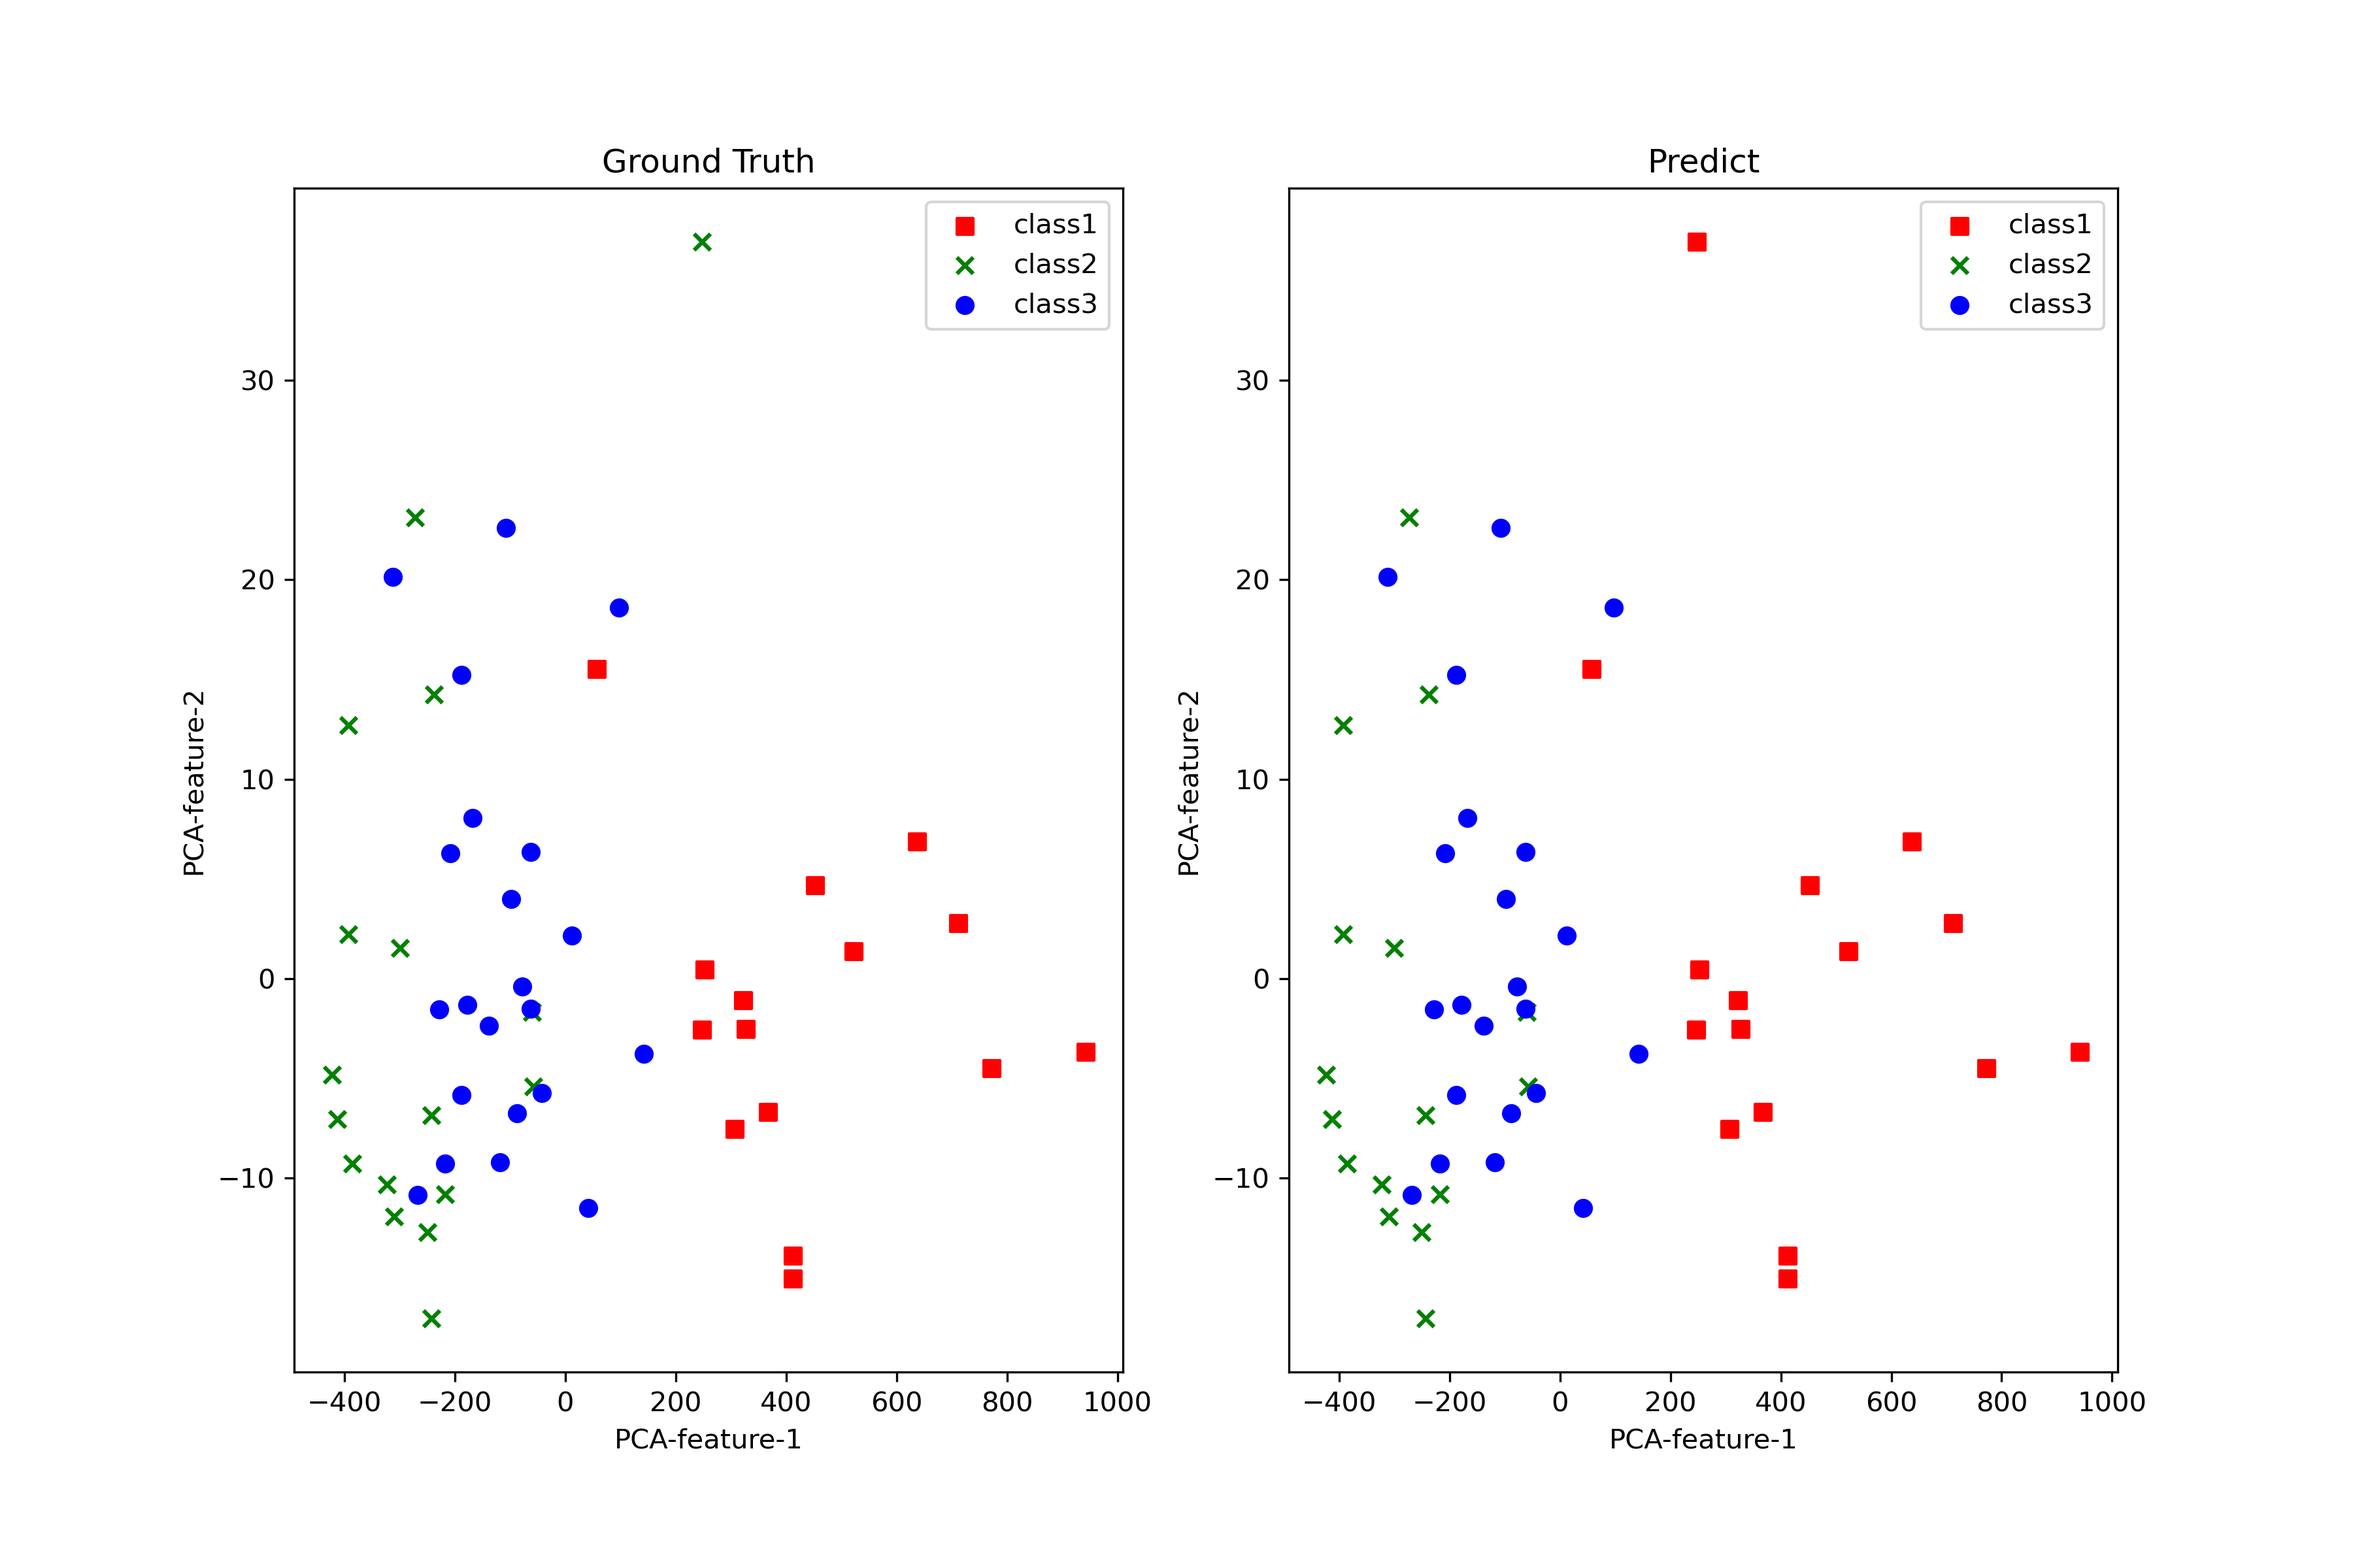
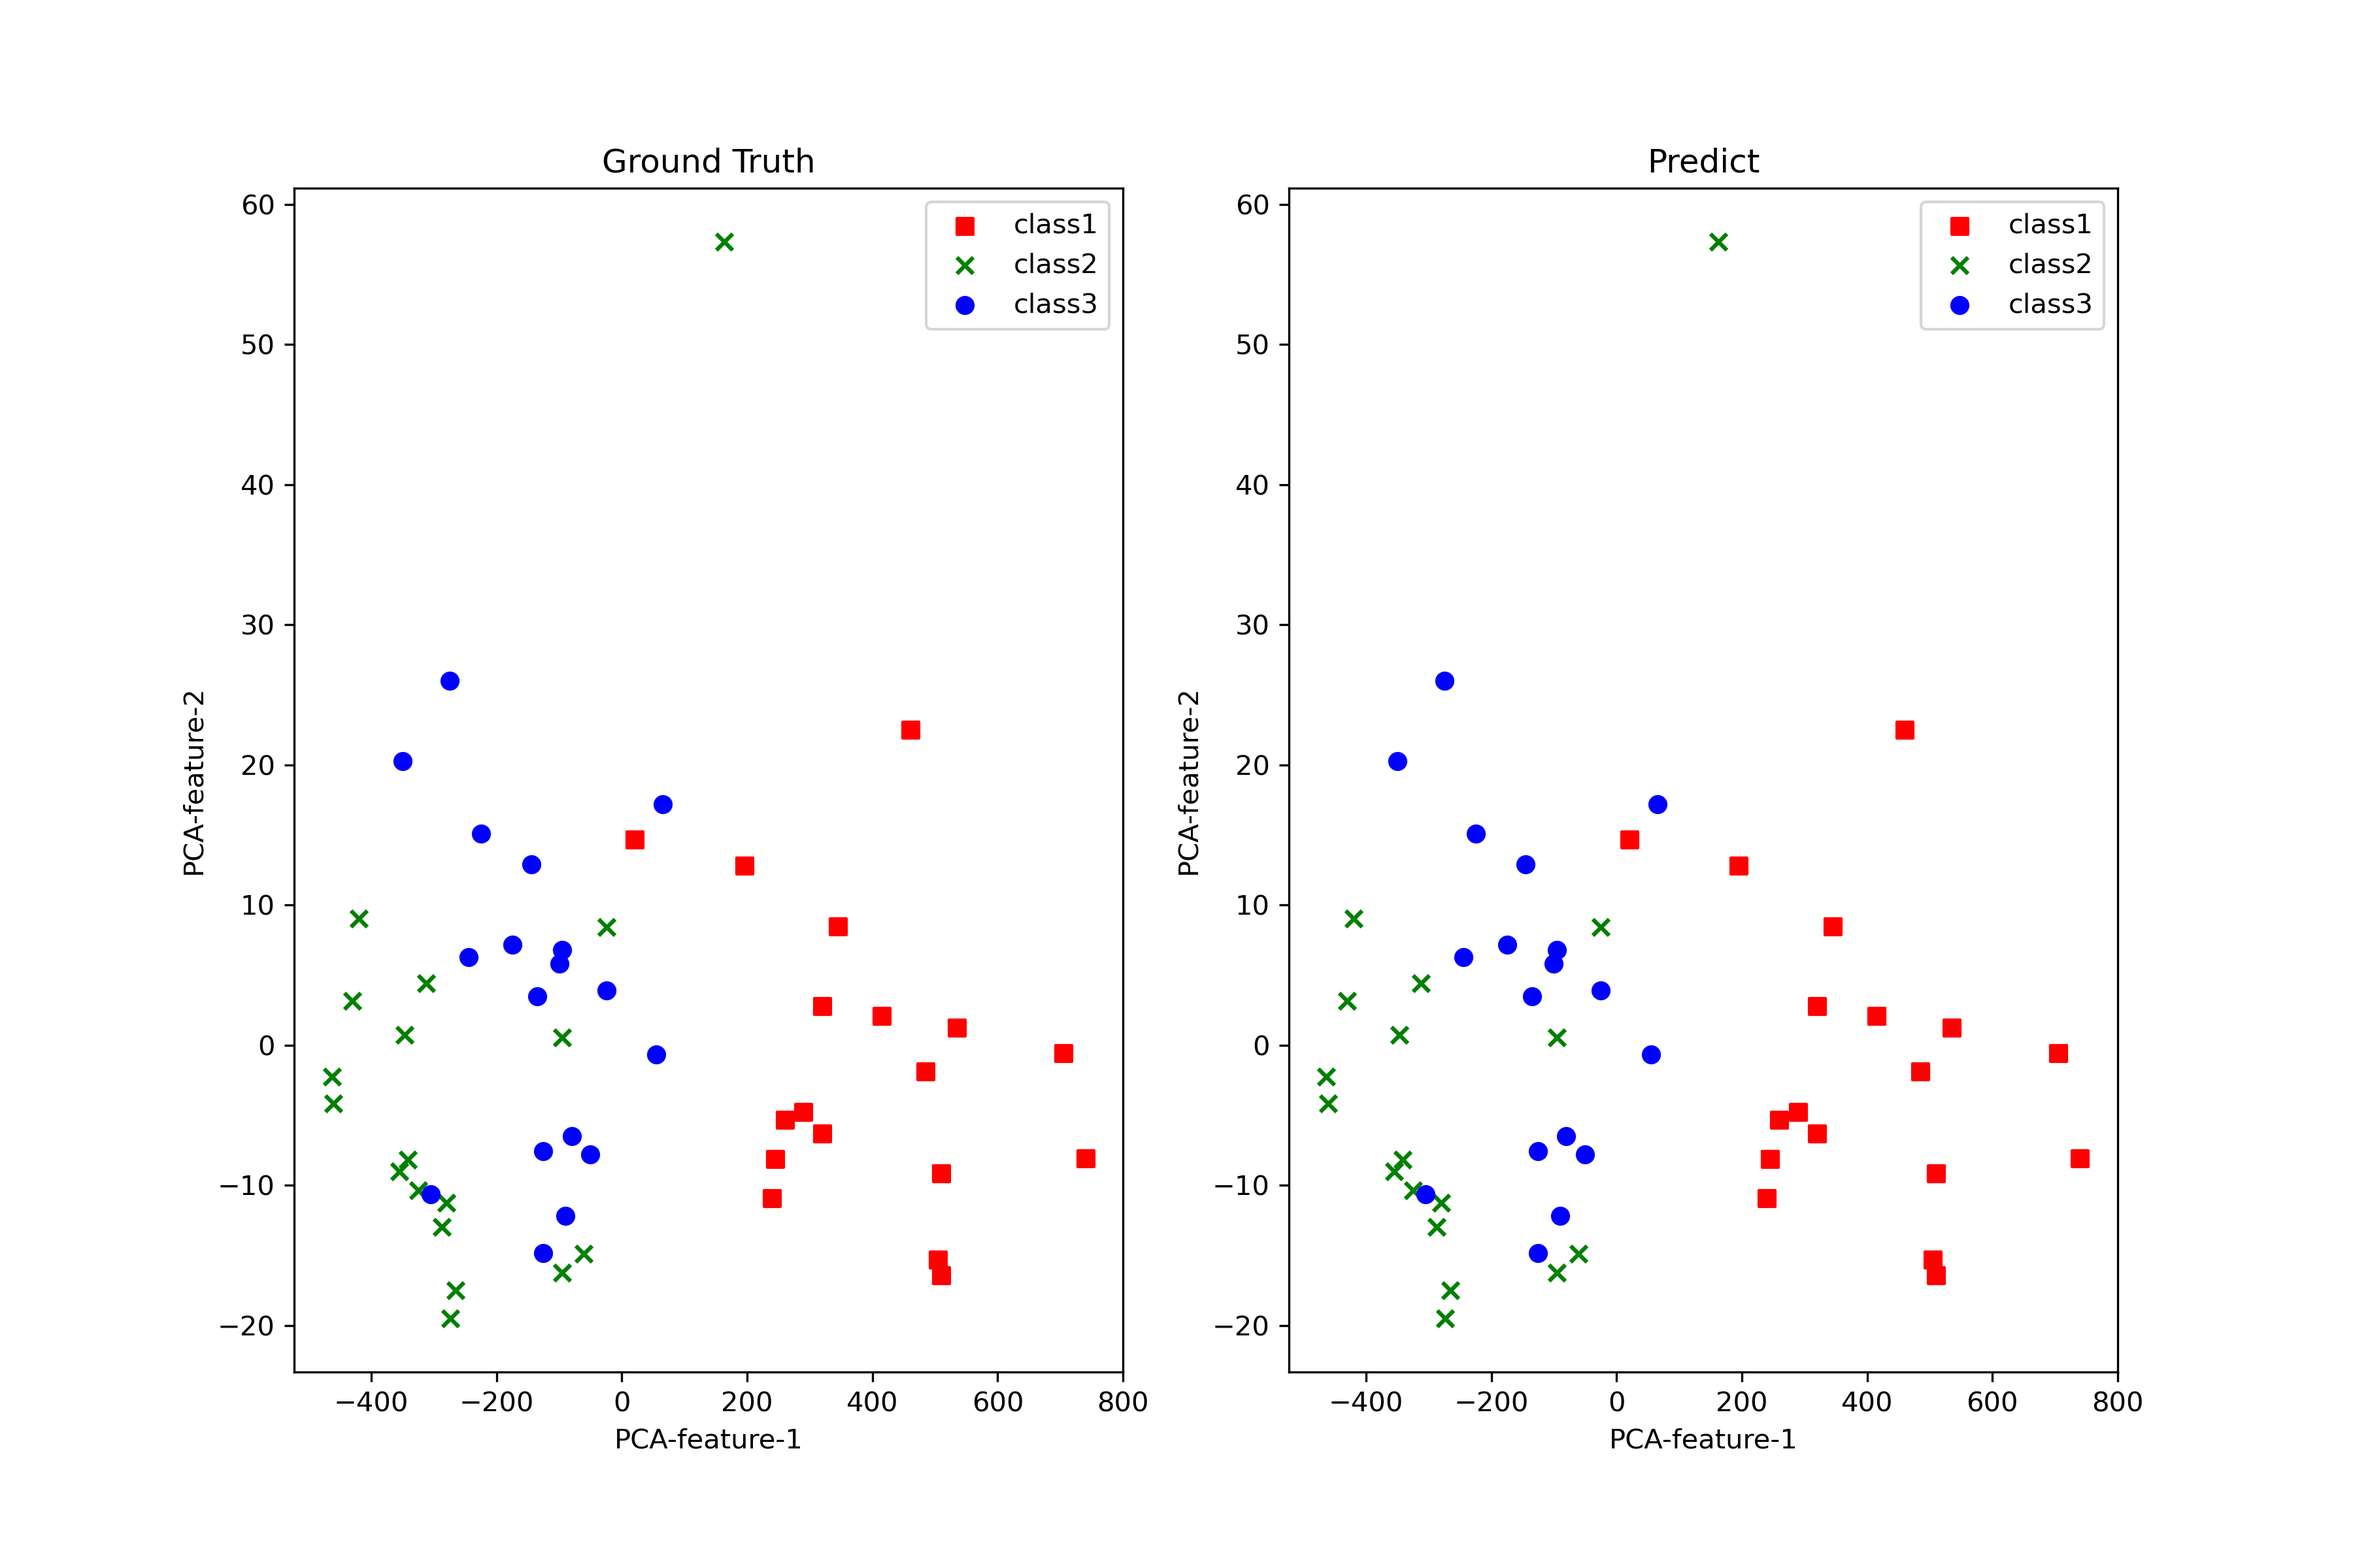
HW1

diff --git a/EE6550/HW1/HW1.py b/EE6550/HW1/HW1.py
@@ -37,17 +37,20 @@ def Preprocessing(data):
     # Split dataset
     print('Split dataset.')
     data_idx = [np.where(data[:,0]==label)[0] for label in range(1, 4)]
-    for class_ in range(3):
-        np.random.shuffle(data_idx[class_])
+    for class_idx in range(3):
+        np.random.shuffle(data_idx[class_idx])
     
+    test_size = np.array([TEST_SIZE/3, TEST_SIZE/3, TEST_SIZE/3]).astype(np.uint8)
+    # test_size = np.array([40, 7, 7]).astype(np.uint8)
+    # print(f'test_size={test_size}')
     train = []
     test = []   
-    for class_ in range(3):
-        for idx in range(len(data_idx[class_])):
-            if idx < TEST_SIZE/3: # 18
-                test.append(data[data_idx[class_][idx]])
+    for class_idx in range(3):
+        for idx in range(len(data_idx[class_idx])):
+            if idx < test_size[class_idx]: # 18 instances for each class
+                test.append(data[data_idx[class_idx][idx]])
             else:
-                train.append(data[data_idx[class_][idx]])
+                train.append(data[data_idx[class_idx][idx]])
 
     # data_in = np.copy(data)
     # np.random.shuffle(data_in)
@@ -68,59 +71,28 @@ def Preprocessing(data):
     pd.DataFrame(test).to_csv("./test.csv", index=False, header=False) # testing data
     pd.DataFrame(train).to_csv("./train.csv", index=False, header=False) # training data
     
-    y_train, x_train = train[:, 0], train[:, 1:]
-    y_test, x_test = test[:, 0], test[:, 1:]
+    y_train, x_train = train[:, 0].astype(np.uint8), train[:, 1:]
+    y_test, x_test = test[:, 0].astype(np.uint8), test[:, 1:]
     
     return x_train, y_train, x_test, y_test
 
-def FeatureOrganize(x_train, y_train):
-    class_num = np.zeros(3)
-    feature_c1 = []
-    feature_c2 = []
-    feature_c3 = []
-    print('Training feature organization.')
-    
-    # Organize features in class ascending order (class1, class2, class3)
-    for i in range(y_train.size):
-        class_ = int(y_train[i])   
-        class_num[class_-1] += 1   
-        if class_==1:
-            feature_c1.append(x_train[i])
-        elif class_==2:
-            feature_c2.append(x_train[i])
-        else:
-            feature_c3.append(x_train[i])
-            
-    feature = [feature_c1, feature_c2, feature_c3]
-    
-    return feature, class_num  
 
-
-def MAP(feature, class_num, x_test, y_test): 
+def MAP(x_train, y_train, x_test, y_test): 
     print('Start MAP implementation.')
+    class_num = np.array([np.where(y_train==label)[0].size for label in range(1, 4)])
     priors = np.array([class_num[i]/np.sum(class_num) for i in range(3)])
     # priors = np.ones(3)*(1/3)
-    # print(priors)
-    
-    feature_c1 = np.array(feature[0]).T
-    feature_c2 = np.array(feature[1]).T
-    feature_c3 = np.array(feature[2]).T
     
     mean = np.zeros((3, 13), np.float64)
     std = np.zeros((3, 13), np.float64)
     
     # Calculate mean & std of 13 features in 3 classes
-    for i in range(3):
-        for j in range(13):
-            if i==0:
-                feature_tmp = feature_c1
-            elif i==1:
-                feature_tmp = feature_c2
-            else:
-                feature_tmp = feature_c3
-            
-            mean[i][j] = np.average(feature_tmp[j])
-            std[i][j] = np.std(feature_tmp[j])
+    idx = 0
+    for class_idx in range(3):
+        data = np.array(x_train[idx:idx+class_num[class_idx]], np.float64)
+        mean[class_idx] = np.average(data, axis=0)
+        std[class_idx] = np.std(data, axis=0)
+        idx += class_num[class_idx]
     
     y_predict = np.ones(y_test.size)*4
     correct = 0
@@ -207,21 +179,18 @@ def PlotCurve3D(x_test, y_test, y_predict):
     plt1_2.legend() 
     plt.savefig('./PCA_3D.png', dpi=300)
     
+    
 if __name__=='__main__':
     # Load data
     data = LoadData('Wine.csv')
 
-    # Preprocessing
+    # Preprocessing (Split dataset into train/test and Save)
     x_train, y_train, x_test, y_test = Preprocessing(data)
     
-    # Training feature organization
-    feature, class_num = FeatureOrganize(x_train, y_train)
-    
     # Maximize A Posteriors to predict in testing data
-    y_predict = MAP(feature, class_num, x_test, y_test)
+    y_predict = MAP(x_train, y_train, x_test, y_test)
 
     # Plot the curves
     PlotCurve2D(x_test, y_test, y_predict)
     PlotCurve3D(x_test, y_test, y_predict)
     
-      
